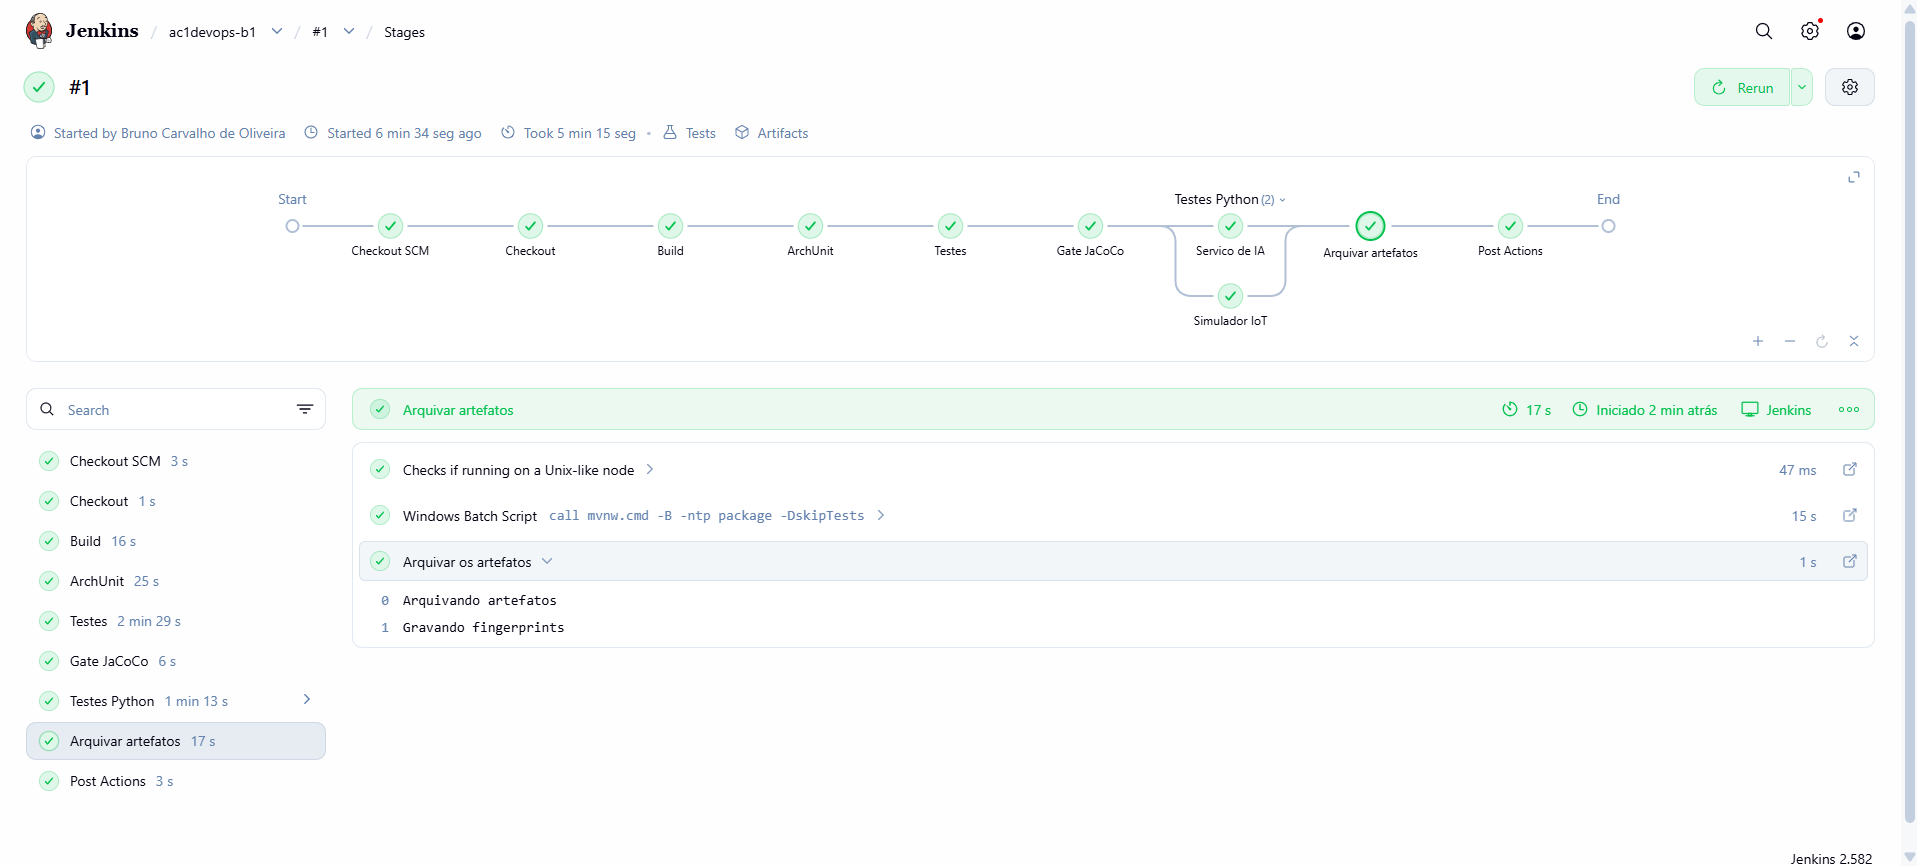
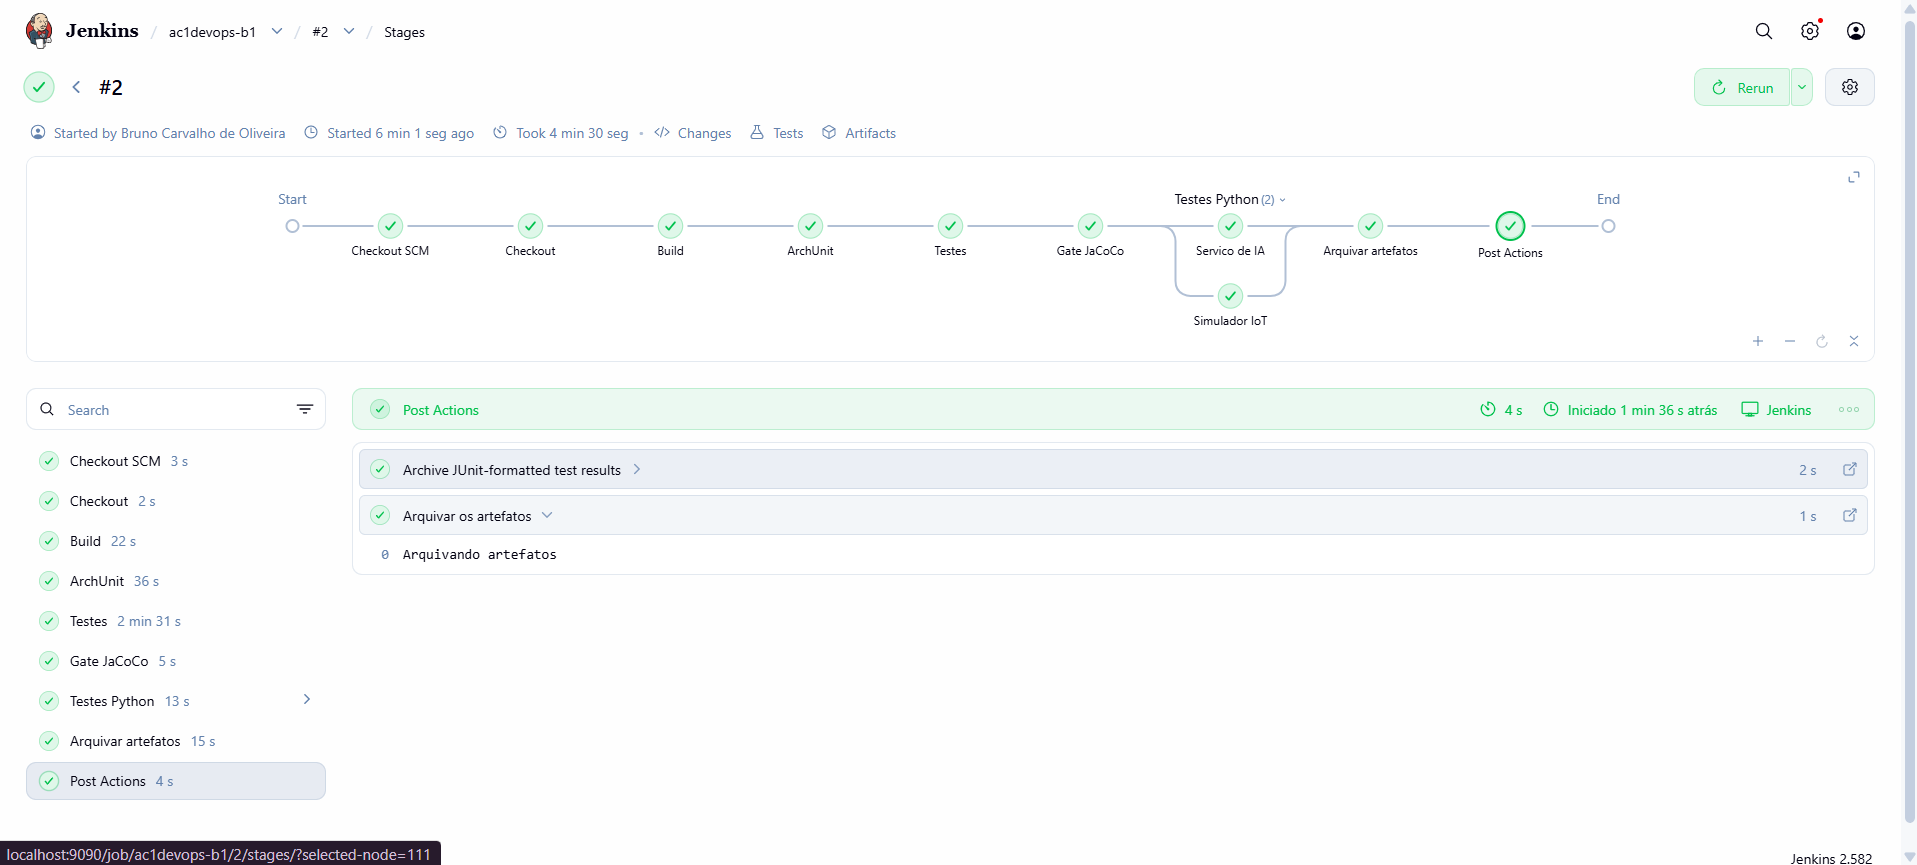
docs(d6): evidencias do Jenkins build #2

diff --git a/docs/arquitetura/README.md b/docs/arquitetura/README.md
@@ -69,7 +69,7 @@ A numeração é global, de ASR1 a ASR17.
 | **ASR12** — Evento confirmado sobrevive à conexão instável | Desafio 5 | Conectividade intermitente e Disponibilidade / R | QoS 1 e sessão persistente, [ADR-005](adr/ADR-005-iot-com-mqtt-e-gateway.md) | [`MqttBrokerIntegrationTest`](../../src/test/java/org/example/ac1devops/iot/internal/adapter/mqtt/MqttBrokerIntegrationTest.java); [fluxo real](evidencias/d5-fluxo-real.txt); prints ([dispositivo offline](evidencias/img/d5-03-dispositivo-offline.png), [Core fora do ar](evidencias/img/d5-04-core-fora.png)) | **Atendido** em um gateway |
 | **ASR13** — Um único efeito por evento, mesmo com reentrega | Desafio 5 | Consistência da integração / R | `eventId` único e efeito antes do registro, [ADR-005](adr/ADR-005-iot-com-mqtt-e-gateway.md) | [`DeviceEventProcessorTest`](../../src/test/java/org/example/ac1devops/iot/internal/domain/DeviceEventProcessorTest.java); [fluxo real](evidencias/d5-fluxo-real.txt): 0 repetições; [print do reenvio](evidencias/img/d5-02-reenvio-duplicado.png) | **Atendido** |
 | **ASR14** — Core desacoplado dos dispositivos | Desafio 5 | Interoperabilidade / + | Broker MQTT e gateway no módulo `iot`, [ADR-005](adr/ADR-005-iot-com-mqtt-e-gateway.md) | Regra `soOAdapterDeIotConheceMqtt` do [`ModularArchitectureTest`](../../src/test/java/org/example/ac1devops/architecture/ModularArchitectureTest.java); [simulador](../../labs/desafio-5/simulador/simulador.py); prints ([eventos](evidencias/img/d5-01-eventos-normais.png), [CI](evidencias/img/d5-05-ci-verde.png)) | **Atendido**; autenticação e TLS pendentes para uso real |
-| **ASR15** — Nenhum artefato sai sem passar pelos gates | Desafio 6 | Testabilidade e Confiabilidade / S, R | Esteira única com estágios por componente, [ADR-006](adr/ADR-006-esteira-unica-e-observabilidade.md) | [`Jenkinsfile`](../../Jenkinsfile); [build #1 no Jenkins](evidencias/img/d6-01-jenkins-verde.png): 182 testes, 0 falhas; [artefatos](evidencias/img/d6-02b-jenkins-artefatos.png) | **Atendido**; a interrupção por um gate com falha não foi provocada dentro do Jenkins |
+| **ASR15** — Nenhum artefato sai sem passar pelos gates | Desafio 6 | Testabilidade e Confiabilidade / S, R | Esteira única com estágios por componente, [ADR-006](adr/ADR-006-esteira-unica-e-observabilidade.md) | [`Jenkinsfile`](../../Jenkinsfile); [build #2 no Jenkins](evidencias/img/d6-01-jenkins-verde.png): [189 testes, 0 falhas](evidencias/img/d6-02a-jenkins-testes.png), gate de 100%; [artefatos](evidencias/img/d6-02b-jenkins-artefatos.png) | **Atendido**; a interrupção por um gate com falha não foi provocada dentro do Jenkins |
 | **ASR16** — ASRs de execução observáveis em operação | Desafio 6 | Observabilidade e Desempenho / S, P | Métricas por ASR, Prometheus e Grafana, [ADR-006](adr/ADR-006-esteira-unica-e-observabilidade.md) | [`ObservabilityIntegrationTest`](../../src/test/java/org/example/ac1devops/web/ObservabilityIntegrationTest.java); [fluxo real](evidencias/d6-observabilidade.txt): fallback de 90,8% com alerta ativo; prints ([painel](evidencias/img/d6-04-grafana-painel.png), [fallback](evidencias/img/d6-05a-fallback.png), [alerta](evidencias/img/d6-05b-alerta.png)) | **Atendido** |
 | **ASR17** — Operação reproduzível a partir do repositório | Desafio 6 | Recuperabilidade / R | Configurações versionadas e compose próprio, [ADR-006](adr/ADR-006-esteira-unica-e-observabilidade.md) | [`observabilidade/`](../../observabilidade/); [fluxo real](evidencias/d6-observabilidade.txt): recriado do zero; [Prometheus](evidencias/img/d6-03-prometheus-alvos.png) | **Atendido** para a observabilidade; o job do Jenkins é criado manualmente |
 
@@ -1661,7 +1661,7 @@ Este desafio não cria funcionalidade: atua sobre **todos os RFs**, na operaçã
 |---|---|---|---|
 | **Observabilidade** | S (Supportability: serviceability) | Latência, 5xx, throughput e uma métrica por ASR de execução em um painel | Atendida: 10 painéis, todos com dados no teste |
 | **Testabilidade** | S (Supportability) | Todos os gates automatizados | Atendida: 168 testes no Core, 12 e 9 nos componentes Python |
-| **Confiabilidade** | R (Reliability) | Artefato só com todos os gates verdes | Atendida: build #1 no Jenkins com todos os estágios verdes |
+| **Confiabilidade** | R (Reliability) | Artefato só com todos os gates verdes | Atendida: build #2 no Jenkins com todos os estágios verdes, inclusive o gate de 100% |
 | **Deploy independente** | + (restrição de implantação) | Artefatos separados, verificados por componente | Atendida: jar e imagem separados; sem publicação automática |
 | **Recuperabilidade** | R (Reliability) | Ambiente de observação recriado com um comando | Atendida: compose com tudo versionado, recriado do zero no teste |
 | **Desempenho** | P (Performance) | p95 do ranking ≤ 300 ms, com 100.000 alunos | Top 100: 114 ms. Posição: 79 ms. Página aleatória: 317 ms sob 10 threads |
@@ -1786,8 +1786,8 @@ C4Deployment
 | 2 | Métricas expostas | `mvnw.cmd test -Dtest=ObservabilityIntegrationTest` | As métricas dos ASRs aparecem em `/actuator/prometheus`; `/actuator/env` responde 404. |
 | 3 | Domínio sem métricas | `mvnw.cmd test -Dtest=ModularArchitectureTest` | Regra `dominioSemFrameworkNemAdapters` inclui Micrometer. |
 | 4 | Fluxo real, com falha provocada | Roteiro abaixo | Tabela abaixo e [`d6-observabilidade.txt`](evidencias/d6-observabilidade.txt). |
-| 5 | Esteira no Jenkins | Job `ac1devops-b1`, passo a passo abaixo | **Build #1 verde em 5 min 15 s; 182 testes, 0 falhas**; jar e relatório do JaCoCo arquivados. |
-| 6 | GitHub Actions | Push na branch | Run #7 (`9552ea7`): **Success, 3 jobs verdes**, em 1m 52s. |
+| 5 | Esteira no Jenkins | Job `ac1devops-b1`, passo a passo abaixo | **Build #2 verde em 4 min 30 s; 189 testes, 0 falhas; gate de 100% do JaCoCo aprovado**. O build #1 também ficou verde, com o gate anterior. |
+| 6 | GitHub Actions | Push na branch | Run #7 (`9552ea7`): **Success, 3 jobs verdes**, em 1m 52s. Run #8 (`6b463f3`, com o gate de 100%): Success, conforme a API do GitHub. |
 | 7 | Build completo | `mvnw.cmd -B clean verify` | **168 testes**, 0 falhas. **100% de cobertura, sem exclusões**: linhas 700/700, branches 86/86, instruções 3326/3326 e métodos 278/278. |
 | 8 | O gate de cobertura funciona | `mvnw.cmd clean test -Dtest=OutboxRelayTest`, seguido de `mvnw.cmd jacoco:check@check` | Com um único teste, o build **falha**: `lines covered ratio is 0.02, but expected minimum is 1.00`. Com a suíte inteira, passa. |
 
@@ -1823,21 +1823,21 @@ Execução do Bruno em 2026-11-03, no Jenkins 2.582 local e com o roteiro abaixo
 
 | Item | Valor observado | Print |
 |---|---|---|
-| Esteira no Jenkins, build #1 | **Todos os estágios verdes, em 5 min 15 s**: Build 16 s, ArchUnit 25 s, Testes 2 min 29 s, JaCoCo 6 s, Python em paralelo 1 min 13 s, Artefatos 17 s | [`d6-01`](evidencias/img/d6-01-jenkins-verde.png) |
-| Testes no Jenkins | **182 testes, 0 falhas** | [`d6-02a`](evidencias/img/d6-02a-jenkins-testes.png) |
-| Artefatos no Jenkins | `Grupo10_ATDD-0.0.1-SNAPSHOT.jar`, 63,42 MiB, e `site/jacoco` | [`d6-02b`](evidencias/img/d6-02b-jenkins-artefatos.png) |
+| Esteira no Jenkins, build #2 | **Todos os estágios verdes, em 4 min 30 s**: Build 22 s, ArchUnit 36 s, Testes 2 min 31 s, JaCoCo 5 s, Python em paralelo 13 s, Artefatos 15 s | [`d6-01`](evidencias/img/d6-01-jenkins-verde.png) |
+| Testes no Jenkins, build #2 | **189 testes, 0 falhas** | [`d6-02a`](evidencias/img/d6-02a-jenkins-testes.png) |
+| Artefatos no Jenkins, print do build #1 | `Grupo10_ATDD-0.0.1-SNAPSHOT.jar`, 63,42 MiB, e `site/jacoco` | [`d6-02b`](evidencias/img/d6-02b-jenkins-artefatos.png) |
 | Prometheus | Alvo `core`: **1/1 UP** | [`d6-03`](evidencias/img/d6-03-prometheus-alvos.png) |
 | Painel no Grafana, antes da queda | Core no ar, 0 req/s de 5xx, e dados nos 10 painéis | [`d6-04`](evidencias/img/d6-04-grafana-painel.png) |
 | Queda do serviço de IA | Fallback de **0% para 100%** | [`d6-05a`](evidencias/img/d6-05a-fallback.png) |
 | Alerta | `FallbackDaIaAlto` **FIRING**; os outros 4 inativos | [`d6-05b`](evidencias/img/d6-05b-alerta.png) |
 | GitHub Actions | Run #7: 3 jobs verdes | [`d6-06`](evidencias/img/d6-06-ci-verde.png) |
 
-Os 182 testes do Jenkins somam os 161 do Core, os 12 do serviço de IA e os 9 do simulador. Esse build é anterior à elevação do gate para 100%, que acrescentou 7 testes ao Core, verificados no build completo local. Essa execução usou banco H2 e poucos dados: os tempos do painel não
+Os 189 testes do Jenkins somam os 168 do Core, os 12 do serviço de IA e os 9 do simulador. O roteiro usou banco H2 e poucos dados: os tempos do painel não
 substituem a medição com 100.000 alunos.
 
 | Esteira no Jenkins | Resultado dos testes |
 |---|---|
-| ![Build #1 com todos os estágios verdes](evidencias/img/d6-01-jenkins-verde.png) | ![182 testes passando](evidencias/img/d6-02a-jenkins-testes.png) |
+| ![Build #2 com todos os estágios verdes](evidencias/img/d6-01-jenkins-verde.png) | ![189 testes passando](evidencias/img/d6-02a-jenkins-testes.png) |
 
 | Artefatos arquivados | Alvo no Prometheus |
 |---|---|
@@ -2107,8 +2107,8 @@ As evidências da AC1 (ciclo RED/GREEN/BLUE, Docker, front-end) ficam em [`evide
 
 ### Histórico do CI
 
-GitHub Actions, branch `feature/b1-architecture-lab`: 7 runs, todos com sucesso: #1 (`4d21fa4`), #2 (`03007e1`), #3 (`b1a3d3a`), #4 (`3c3cce2`), #5 (`49ab6b2`), #6 (`7b72aa1`)
-e #7 (`9552ea7`).
+GitHub Actions, branch `feature/b1-architecture-lab`: 8 runs, todos com sucesso: #1 (`4d21fa4`), #2 (`03007e1`), #3 (`b1a3d3a`), #4 (`3c3cce2`), #5 (`49ab6b2`), #6 (`7b72aa1`)
+e #7 (`9552ea7`). Depois do print abaixo, o run #8 (`6b463f3`), já com o gate de 100%, também terminou com sucesso, conforme a API do GitHub.
 
 ![Lista com os 7 runs verdes da branch](evidencias/img/b1-ci-historico-final.png)
 

diff --git a/docs/arquitetura/adr/ADR-006-esteira-unica-e-observabilidade.md b/docs/arquitetura/adr/ADR-006-esteira-unica-e-observabilidade.md
@@ -77,4 +77,4 @@ estágios por componente e as imagens separadas já garantem.
 - O endpoint de métricas não tem autenticação, e Prometheus e Grafana só são publicados em `localhost`. Em produção, isso precisa de proteção.
 - As métricas usam o registro global do Micrometer, para não alterar construtores nem testes dos módulos; é um acoplamento estático aceito no
   laboratório.
-- O job do Jenkins é criado manualmente, seguindo o README. O build #1 ficou verde; a interrupção por um gate com falha não foi provocada no Jenkins.
+- O job do Jenkins é criado manualmente, seguindo o README. Os builds #1 e #2 ficaram verdes, o segundo com o gate de 100%; a interrupção por um gate com falha não foi provocada no Jenkins.
